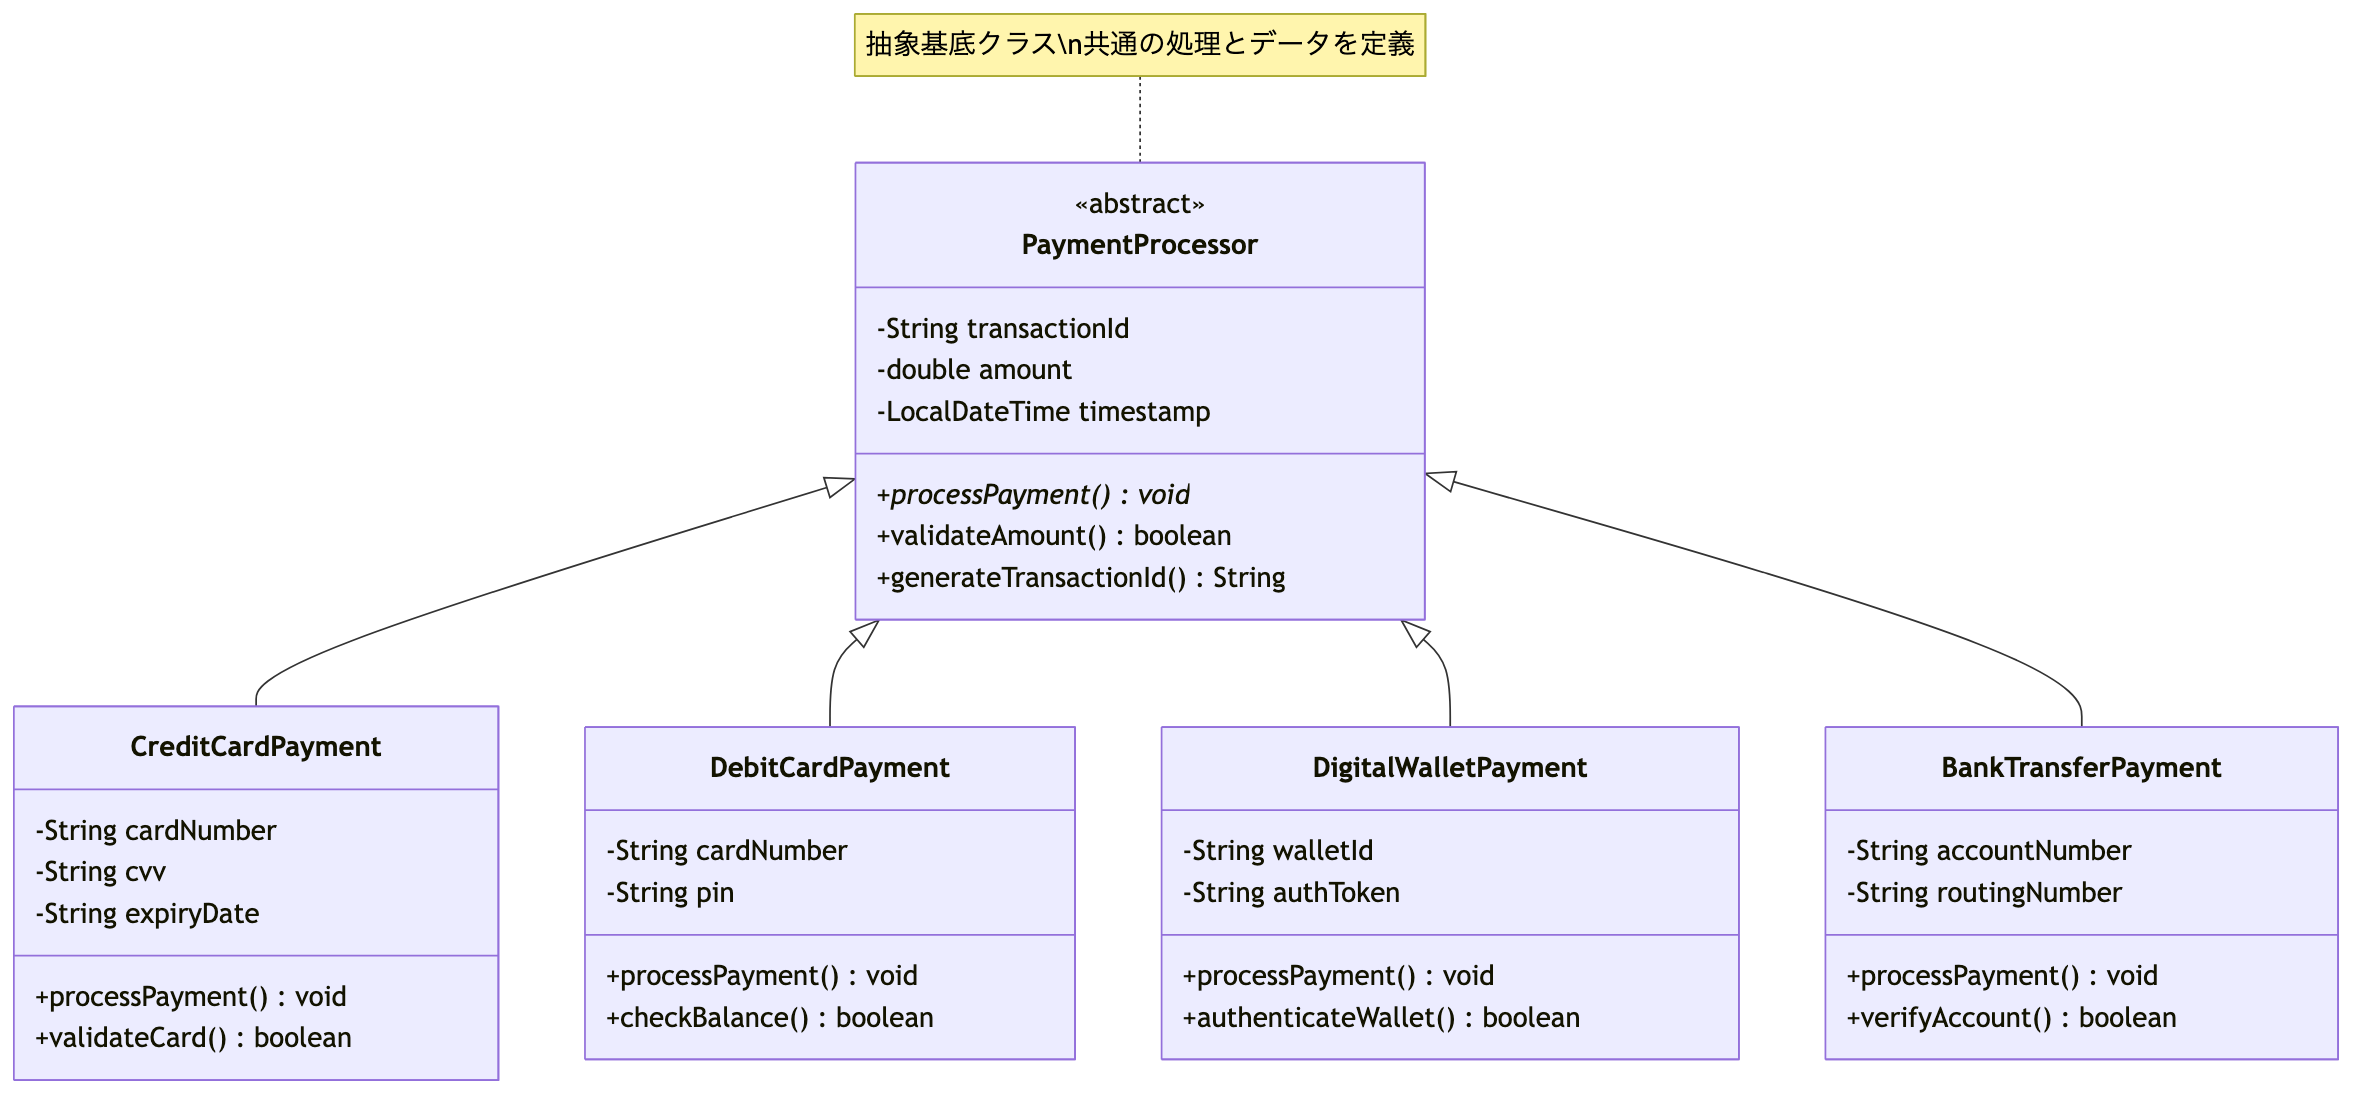
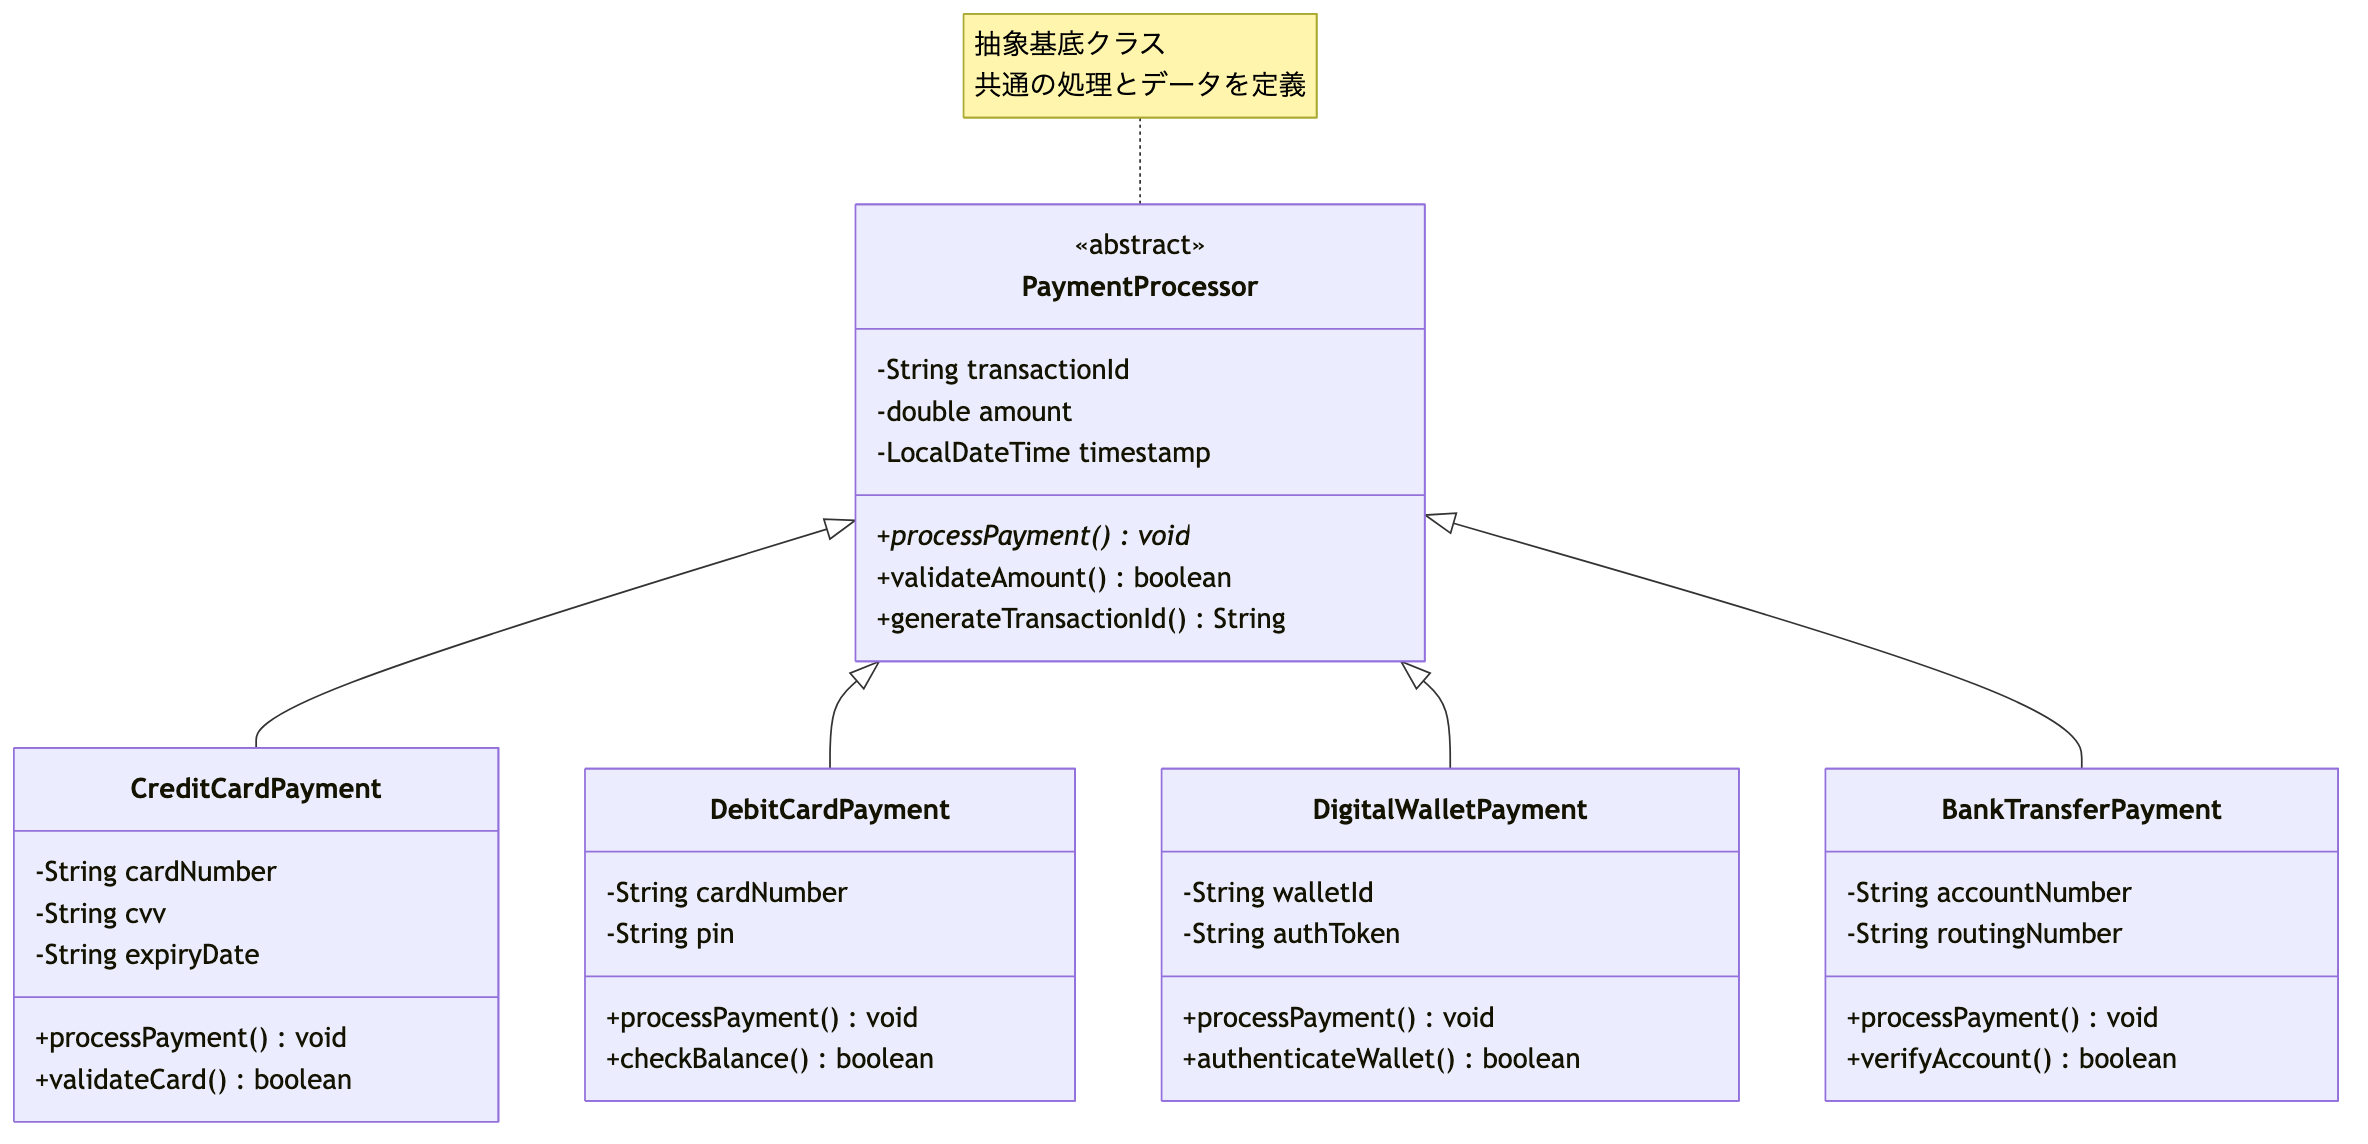
fix: 本に載せる図をdocs/diagramsの元データから作るようにし、元データと画像を1対1にする
本文が参照していたfigureXX-YY.pngには元データがなく、.mmdから作るchapterXX-*.pngは本で使われていなかった。
- .mmdのファイル名を載せている章の番号に合わせ（6章→13章など）、原稿が同じ名前の画像を参照するようにする
- 17章のイベント処理の図は、本に載っていた簡単な図を元データとして書き起こし、詳しい図はdocs/diagrams/unused/へ移す
- 使っていない3章の比較図もunused/へ移し、どこからも参照されない画像を消す
- クラス図の注釈の改行を\nから<br/>にする（mermaid-cli v11.17では\nがそのまま表示される）
- 元データがなくなった図の変換記録を消す

diff --git a/scripts/convert-mermaid-to-images.js b/scripts/convert-mermaid-to-images.js
@@ -70,6 +70,11 @@ mermaidFiles.forEach(mmdFile => {
   }
 });
 
+// 元の.mmdがなくなった図の記録は消す
+const existing = new Set(mermaidFiles.map((f) => path.basename(f, '.mmd')));
+for (const name of Object.keys(convertedHashes)) {
+  if (!existing.has(name)) delete convertedHashes[name];
+}
 fs.writeFileSync(HASH_FILE, JSON.stringify(convertedHashes, Object.keys(convertedHashes).sort(), 2) + '\n');
 console.log(`図の変換: ${converted}件を変換、${skipped}件は変更なしのため省略`);
 

diff --git a/docs/diagrams/diagram-recommendations.md b/docs/diagrams/diagram-recommendations.md
@@ -231,12 +231,12 @@
 ### 第14章：マルチスレッドプログラミング
 
 #### 14-1. スレッドライフサイクル
-- **ファイル**: `chapter14-thread-lifecycle.mmd`
+- **ファイル**: `chapter15-thread-lifecycle.mmd`
 - **推奨図**：状態遷移図
 - **説明**：NEW→RUNNABLE→BLOCKED/WAITING→TERMINATEDの状態遷移
 
 #### 14-2. 同期制御メカニズム
-- **ファイル**: `chapter14-synchronization.mmd`
+- **ファイル**: `chapter15-synchronization.mmd`
 - **推奨図**：ロック取得図・待機キュー図
 - **説明**：synchronizedブロックでのモニターロック取得・解放
 
@@ -270,12 +270,12 @@
 ### 第16章：GUIプログラミング
 
 #### 16-1. Swingコンポーネント階層
-- **ファイル**: `chapter16-swing-hierarchy.mmd`
+- **ファイル**: `chapter17-swing-hierarchy.mmd`
 - **推奨図**：コンポーネント継承図・包含関係図
 - **説明**：JComponent→各種UIコンポーネントの継承関係
 
 #### 16-2. イベント処理モデル
-- **ファイル**: `chapter16-event-model.mmd`
+- **ファイル**: `chapter17-event-model.mmd`
 - **推奨図**：イベントフロー図・リスナー登録図
 - **説明**：ユーザー操作→イベント生成→リスナー通知の流れ
 

diff --git a/docs/diagrams/unused/README.md b/docs/diagrams/unused/README.md
@@ -1,0 +1,6 @@
+# 本で使っていない図
+
+本文に載せていない図の元データです。`npm run mermaid:convert`はこのディレクトリを変換しません。本に載せるときは`docs/diagrams/`へ移し、ファイル名を「chapterXX-内容.mmd」（XXは載せる章の番号）にして、原稿から`images/diagrams/同じ名前.png`を参照します。
+
+- `chapter03-paradigm-comparison.mmd`: 手続き型（C言語の構造体と関数）とオブジェクト指向（クラス）の比較
+- `chapter18-event-dispatch-detailed.mmd`: イベントディスパッチスレッド（EDT）とSwingWorkerを含むイベント処理の流れ。17章の図（`chapter17-event-model.mmd`）はこれを簡単にしたもの

diff --git a/manuscripts/chapter15-multithreading.md b/manuscripts/chapter15-multithreading.md
@@ -318,7 +318,7 @@ class UnsafeCounter {
 
 <div class="figure">
 
-![synchronizedによる排他制御メカニズム](images/diagrams/figure15-02.png)
+![synchronizedによる排他制御メカニズム](images/diagrams/chapter15-synchronization.png)
 
 </div>
 
@@ -865,7 +865,7 @@ Javaでスレッドを作成するには、主に`Runnable`インターフェイ
 
 <div class="figure">
 
-![スレッドのライフサイクルと状態遷移](images/diagrams/figure15-01.png)
+![スレッドのライフサイクルと状態遷移](images/diagrams/chapter15-thread-lifecycle.png)
 
 </div>
 

diff --git a/manuscripts/chapter17-gui-basics.md b/manuscripts/chapter17-gui-basics.md
@@ -129,7 +129,7 @@ public class WindowSettings {
 
 <div class="figure">
 
-![Swingコンポーネントの継承階層](images/diagrams/figure17-01.png)
+![Swingコンポーネントの継承階層](images/diagrams/chapter17-swing-hierarchy.png)
 
 </div>
 
@@ -750,7 +750,7 @@ Swingのイベント処理は、以下の3つの要素で構成されます。
 
 <div class="figure">
 
-![Swingのイベント処理モデル](images/diagrams/figure17-02.png)
+![Swingのイベント処理モデル](images/diagrams/chapter17-event-model.png)
 
 </div>
 

diff --git a/manuscripts/chapter14-file-io.md b/manuscripts/chapter14-file-io.md
@@ -60,13 +60,13 @@
 
 <div class="figure">
 
-![バイトストリームクラスの階層構造](images/diagrams/figure14-01a.png)
+![バイトストリームクラスの階層構造](images/diagrams/chapter14-byte-stream-hierarchy.png)
 
 </div>
 
 <div class="figure">
 
-![文字ストリームクラスの階層構造](images/diagrams/figure14-01b.png)
+![文字ストリームクラスの階層構造](images/diagrams/chapter14-char-stream-hierarchy.png)
 
 </div>
 

diff --git a/manuscripts/chapter12-advanced-collections.md b/manuscripts/chapter12-advanced-collections.md
@@ -216,7 +216,7 @@ List<Integer> result = stream.collect(Collectors.toList());
 
 <div class="figure">
 
-![Stream APIのパイプライン処理フロー](images/diagrams/figure12-01.png)
+![Stream APIのパイプライン処理フロー](images/diagrams/chapter12-stream-api-pipeline.png)
 
 </div>
 
